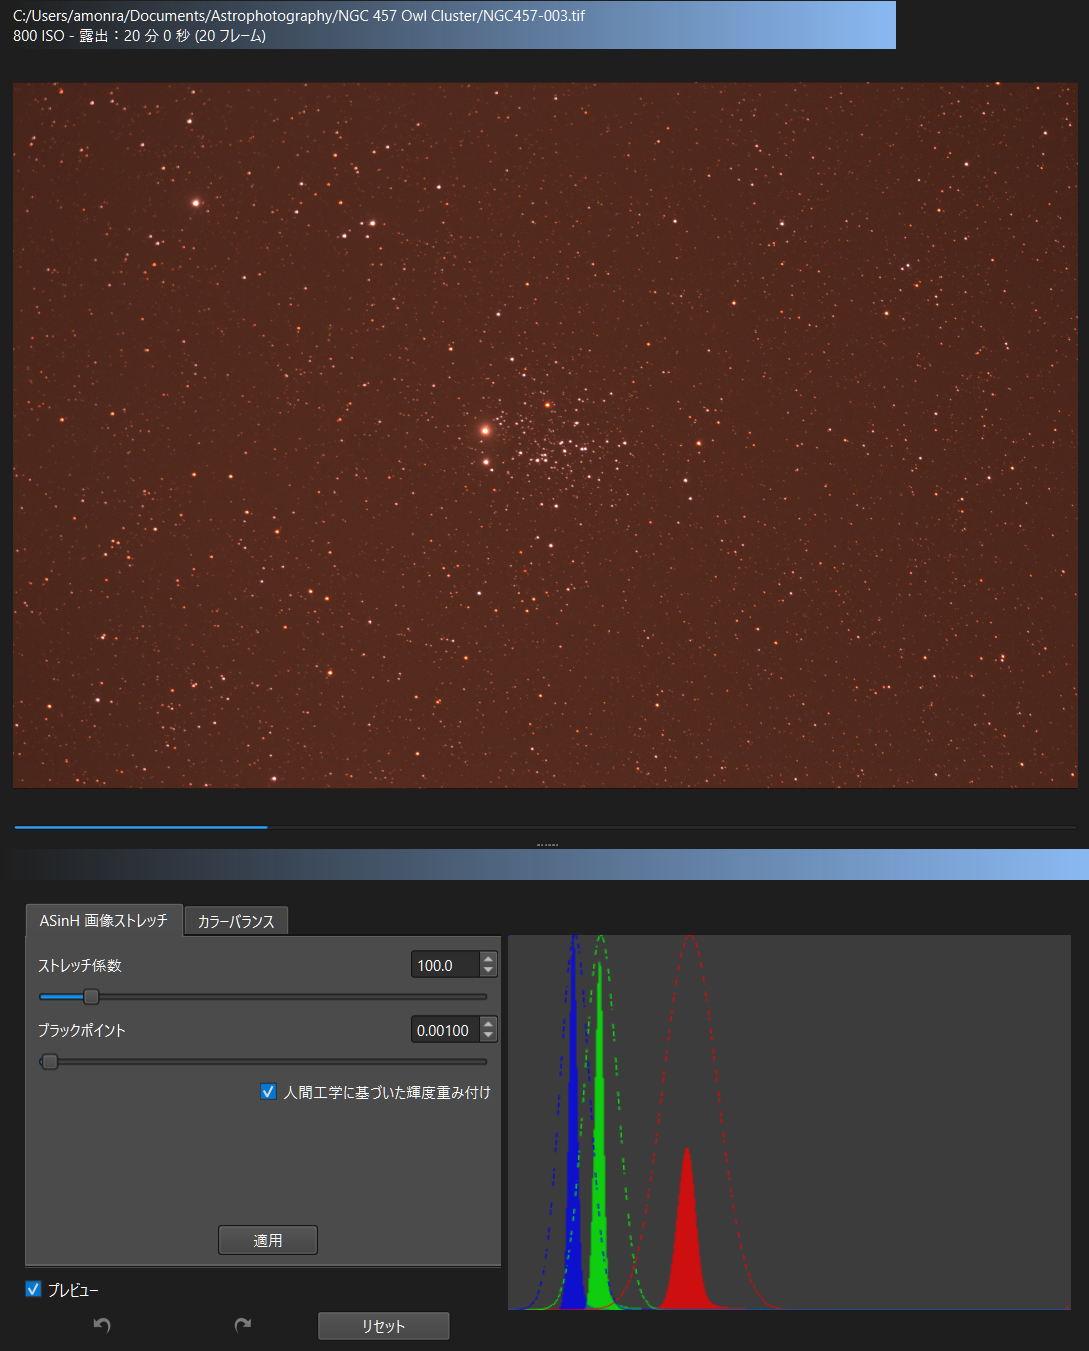
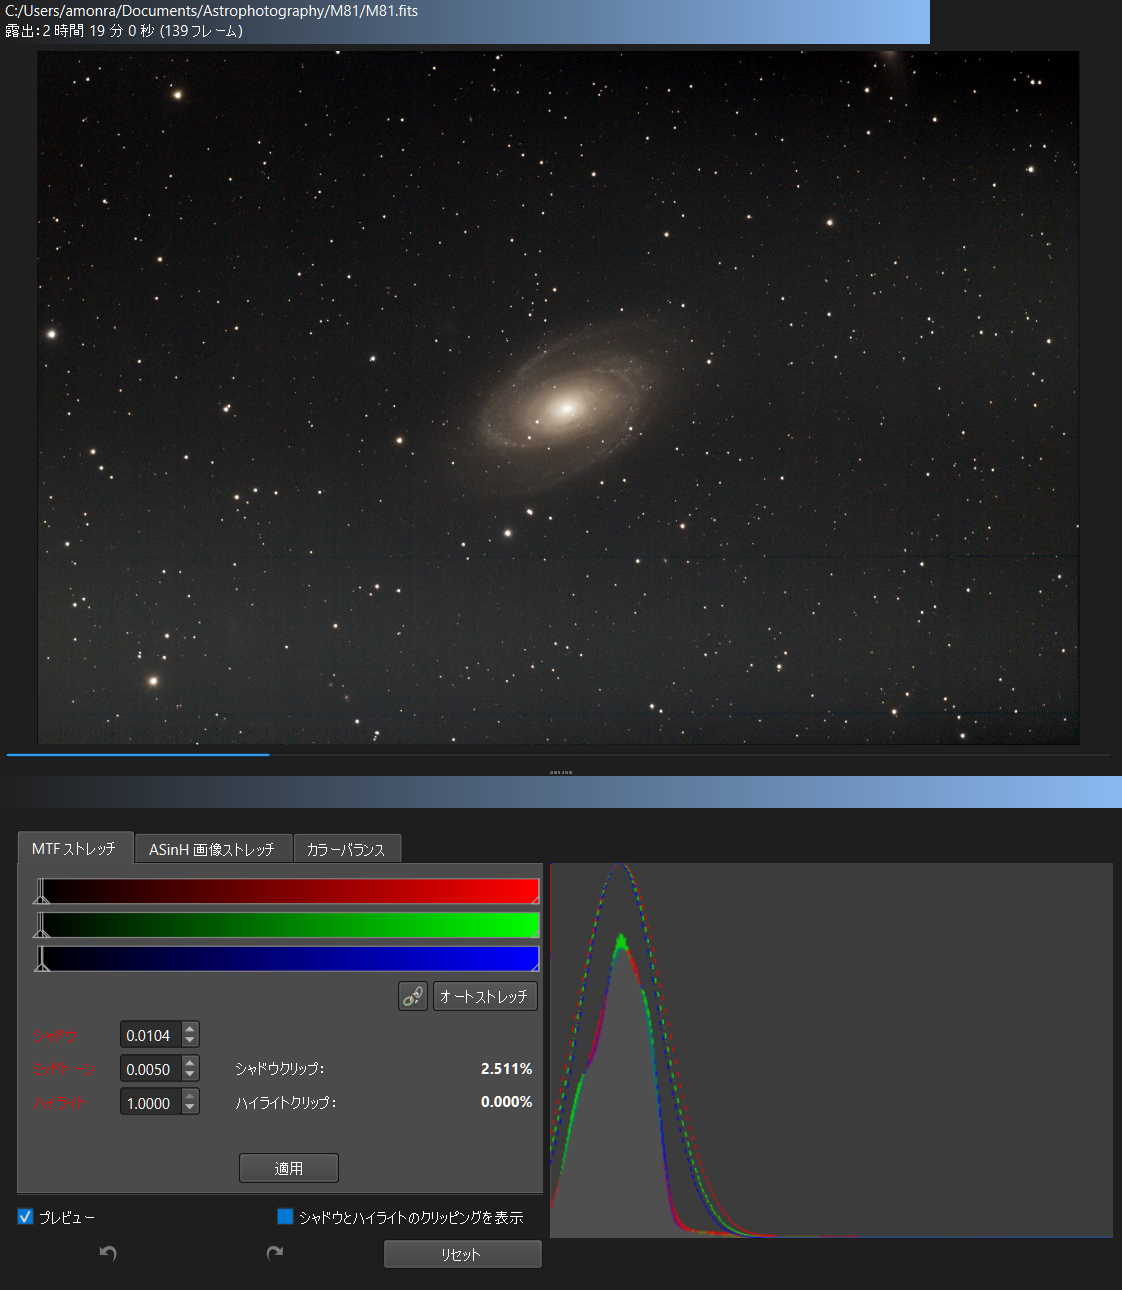
Corrections and improvements to Japanese help

diff --git a/Help/japanese/technical.htm b/Help/japanese/technical.htm
@@ -60,7 +60,7 @@ cellPadding=5 width="100%" border=1>
   <TBODY>
   <TR>
     <TD width="63%"><FONT size=2>このしきい値は、「チェックした画像の登録/登録設定」ダイアログの「詳細」タブ、または Settings.../登録設定 を選択して（自動しきい値が選択されていない場合）変更できます。</FONT><font size="2" face="Arial">
-<p align="justify"><span lang="EN-US" style="FONT-SIZE: 10pt; FONT-FAMILY: Arial"><EM><STRONG>星検出のしきい値を小さくすると</STRONG></EM>, DeepSkyStackerはより多くの（より暗い）星を見つけるようになります. 逆に, <EM><STRONG>しきい値を大きくすると</STRONG></EM>, より明るい星だけが検出されるようになり, 検出される星の数は<EM><STRONG>減ります</STRONG></EM>.<BR><BR>しきい値を非常に低くして何百もの星が検出されるように設定すると, 星の登録のために処理するデータ量がはるかに多くなり, 検出される星が多すぎると誤登録の可能性が高まるため, 逆効果になる可能性があります. 目標としては, 20〜25個以上の星を目指し, 多くても200個程度にするのが適切です.</span></p>
+<p align="justify"><span lang="EN-US" style="FONT-SIZE: 10pt; FONT-FAMILY: Arial"><EM><STRONG>星検出のしきい値を小さくすると</STRONG></EM>, DeepSkyStackerはより多くの（より暗い）星を見つけるようになります. 逆に, <EM><STRONG>しきい値を大きくすると</STRONG></EM>, より明るい星だけが検出されるようになり, 検出される星の数は<EM><STRONG>減ります</STRONG></EM>.<BR><BR>  しきい値を非常に低くして何百もの星が検出されるように設定すると, 星の登録のために処理するデータ量がはるかに多くなり, 検出される星が多すぎると誤登録の可能性が高まるため, 逆効果になる可能性があります. 目標としては、20〜25個以上の星を目指し、多くても200個程度にするのが適切です.</span></p>
 <p align="justify"><span lang="EN-US" style="FONT-SIZE: 10pt; FONT-FAMILY: Arial">検出のしきい値を低く設定しても、画像が露出不足のためにDeepSkyStackerが十分な数の星を見つけられない場合は、RAW/FITS DDP設定の「明るさ（Brightness）」調整を使用して画像の明るさを上げることができます。</span></p>
 <p align="justify"><span lang="EN-US" style="FONT-SIZE: 10pt; FONT-FAMILY: Arial">画像にノイズが多い（例：光害の結果）場合、「メディアンフィルターを使用してノイズを低減する（Reduce the noise by using a Median Filter）」オプションを有効にする必要がある場合があります。</span></p>
 <p align="justify">
@@ -73,7 +73,8 @@ cellPadding=5 width="100%" border=1>
                   
                    
                   </p>
-<P class=MsoNormal><FONT size=2>これにより、「星検出のしきい値」を手動で調整する必要がなくなります。<br>この機能は、最小しきい値の1%でも十分な数の星を見つけるのに十分な低さではない画像に特に役立ちます（自動しきい値は0.05%まで低くすることができます）。<BR>検出される星の数が少なくとも50個になるようにしきい値が設定されます（可能な場合。それ以外の場合は低い数が許容されます）。</FONT>       
+<P class=MsoNormal><FONT size=2>これにより、「星検出のしきい値」を手動で調整する必要がなくなります。<br>この機能は、最小しきい値の1%でも十分な数の星を見つけるのに十分な低さではない画像に特に役立ちます（自動しきい値は 
+      0.05%〜 まで低くすることができます）。<BR>検出される星の数が少なくとも50個になるようにしきい値が設定されます（可能な場合。それ以外の場合は低い数が許容されます）。</FONT>       
                  
        </P>
 <P class=MsoNormal><FONT size=2>最初の画像で計算されたしきい値は、後続の画像の最適なしきい値を見つけるための開始点として使用されます。すでにリファレンスフレームが選択されている場合は、この画像が最初に登録する画像として使用されます。<font face="Arial" ></P></font></FONT></TD>
@@ -140,7 +141,7 @@ FOCAS 自動カタログ照合アルゴリズム</a><br>
 <ul>
   <li>
   <p align="justify"><font size="2" face="Arial">メイングループのライトフレームは、メイングループのダーク、フラット、およびオフセット/バイアスフレームとのみ関連付けることができます。 <br>
-  这是、ファイルグループ導入前のDeepSkyStackerの動作と同じです。</font></p>
+  这是、これは、ファイルグループ導入前のDeepSkyStackerの動作と同じです。</font></p>
   <li>
   <p align="justify"><font size="2" face="Arial">メイングループのダーク、フラット、およびオフセット/バイアスフレームは、任意のグループのライトフレームに関連付けることができます。</font></p>
   <li>
@@ -455,7 +456,7 @@ DeepSkyStackerは、この操作を行おうとすると警告を発します。
   </tr>
 </table>
 <p align="justify"><font face="Arial" size="2">&nbsp;</font><font face="Arial"><b><font size="2">ステップ2：スタッキングモードを選択する</font><br>
-</b></font><font face="Arial" size="2">これは、スタッキングパラメータダイアログで利用可能な<A href="userguide.htm#comettab">Comet（コメット）</A>タブで行います。<br>
+</b></font><font face="Arial" size="2">これは、スタッキングパラメータダイアログで利用可能な<A href="userguide.htm#comettab">「彗星」</A>彗星」タブで行います。<br>
 Cometタブは、少なくとも2つのライトフレーム（リファレンスライトフレームを含む）に登録された彗星がある場合にのみ使用できます。<br>
 このタブから、利用可能な3つのコメットスタッキングオプションのいずれかを選択できます。<br>
 &nbsp;<br>
@@ -475,7 +476,10 @@ DeepSkyStackerは、彗星が登録された画像と彗星が登録されてい
 <a name="rawdecod"></a>RAW画像の現像プロセス</span><span lang="EN-US" style="FONT-FAMILY: Arial"><br>
 </span><span lang="EN-US" style="FONT-SIZE: 10pt; FONT-FAMILY: Arial">RAWファイルのデコード</span><span lang="EN-US" style="FONT-FAMILY: Arial"><br>
 </span></b><span lang="EN-US" style="FONT-SIZE: 10pt; FONT-FAMILY: Arial">
-DSLRによって作成されたRAWファイルは、Dave CoffinによるオリジナルのDCRawをベースにしたLibRaw（Copyright © 2008-2019 LibRaw LLC）を使用してデコードされます。<br>
+DSLRによって作成されたRAWファイルは、Dave 
+CoffinによるオリジナルのDCRawをベースにしたLibRaw(<STRONG>Copyright © 2008-2019 LibRaw 
+LLC</STRONG>
+     )を使用してデコードされます。<br>
 DeepSkyStackerはリリース時に利用可能な最新バージョンのLibRawを使用しており、カメラがサポートされていない場合は警告を表示します。</span>
   <span lang="EN-US">
   <hr size="2" width="100%" noshade color="blue" align="center"></span>
@@ -547,7 +551,7 @@ RGBGフィルターの場合、ピクセルの4分の1が赤、別の4分の1が
   <tr>
     <td width="51%">
     <p class="Standard"><font size="2" face="Arial">
-    最後に、Dave Coffinによって提案されたメソッドは、画像間に存在する「自然な」ドリフトを利用して、結果として得られる各ピクセルの真のRGB値を計算するスタッキングプロセスの特性を使用します。<br>
+    3つ目の方法は、Dave Coffinによって提案されたメソッドは、画像間に存在する「自然な」ドリフトを利用して、結果として得られる各ピクセルの真のRGB値を計算するスタッキングプロセスの特性を使用します。<br>
     <br>
     多数の画像が利用可能で、かつサブピクセル位置合わせが行われている場合、DeepSkyStackerは補間を一切使用せずに、各ピクセルの各原色の真の値を計算します。<br>
     &nbsp;<br>

diff --git a/Help/japanese/faq.htm b/Help/japanese/faq.htm
@@ -1,4 +1,4 @@
-<html>
+<html>
 
 <head>
 <meta http-equiv="Content-Language" content="en-us">
@@ -205,7 +205,7 @@ FITSファイルが正しくデコードされない場合は、FITSファイル
 </b>明白な答え（より高速なプロセッサ、より多くのメモリ）以外で、処理を高速化する最善の方法は、非補間モード（<A href="technical.htm#bayerdrizzle">ベイヤー・ドリズルおよびスーパーピクセル</A>）を使用するか、バイリニアおよびAHD補間を使用することです。これらはすべて、3つのRGBチャンネルではなく1つのモノクロ16ビットチャンネルのみを持つRAWファイルに対してのみ機能します。<br>
 画像のデコードがより高速になり（補間なしまたは高速）、必要なメモリは1/3に削減され、フラット、ダーク、オフセットフレームは3つのプレーンではなく1つのプレーンのみで計算および内部保存されます。<br>
 <br>
-結果画像をより速く取得するもう1つの方法は、画像の関心のある部分のみを含む<A href="technical.htm#customrect">カスタム矩形</A>を使用することです。</font></p>
+結果画像をより速く取得するもう1つの方法は、画像の関心のある部分のみを含む<A href="technical.htm#customrect">カスタム長方形</A>を使用することです。</font></p>
 <div class="MsoNormal" align="center" style="TEXT-ALIGN: center">
   <span lang="EN-GB">
   <hr size="2" width="100%" noshade color="blue" align="center"></span>

diff --git a/Help/japanese/theory.htm b/Help/japanese/theory.htm
@@ -1,4 +1,4 @@
-<html>
+<html>
 
 <head>
 <meta http-equiv="Content-Language" content="en-us">
@@ -142,7 +142,7 @@
 <font face="Arial" color="#ff0000" size="4"><b>どのISO感度を選ぶべきか？<br>
 </b></font><font face="Arial" size="2">この質問はよくあることですが、答えは単純で「関係ない...ある程度は」です。<br>
 <br>
-実際、ISO感度は単なるDSLRの設定ですが、CMOSまたはCCDチップは同じ（ISO感度を変更してもチップ自体は変更しませんよね？）であるため、結果は本当に同じになります。<br>
+実際、ISO感度は単なるDSLRの設定ですが、CMOSまたはCCDチップは同じ（ISO感度を変更してもチップ自体は変更されません）であるため、結果は本当に同じになります。<br>
 ISO感度を高くしたからといってより多くの光子が得られるわけではなく、単に信号が（ノイズも含めて）より増幅されるだけです。<br>
 </font></p>
 <p align="justify"><font face="Arial" size="2">良いニュースは、より暗い対象を捉えようとしてISO感度を変える必要はないということです。単により長い露光時間で撮影すればよいのです。</font></p>